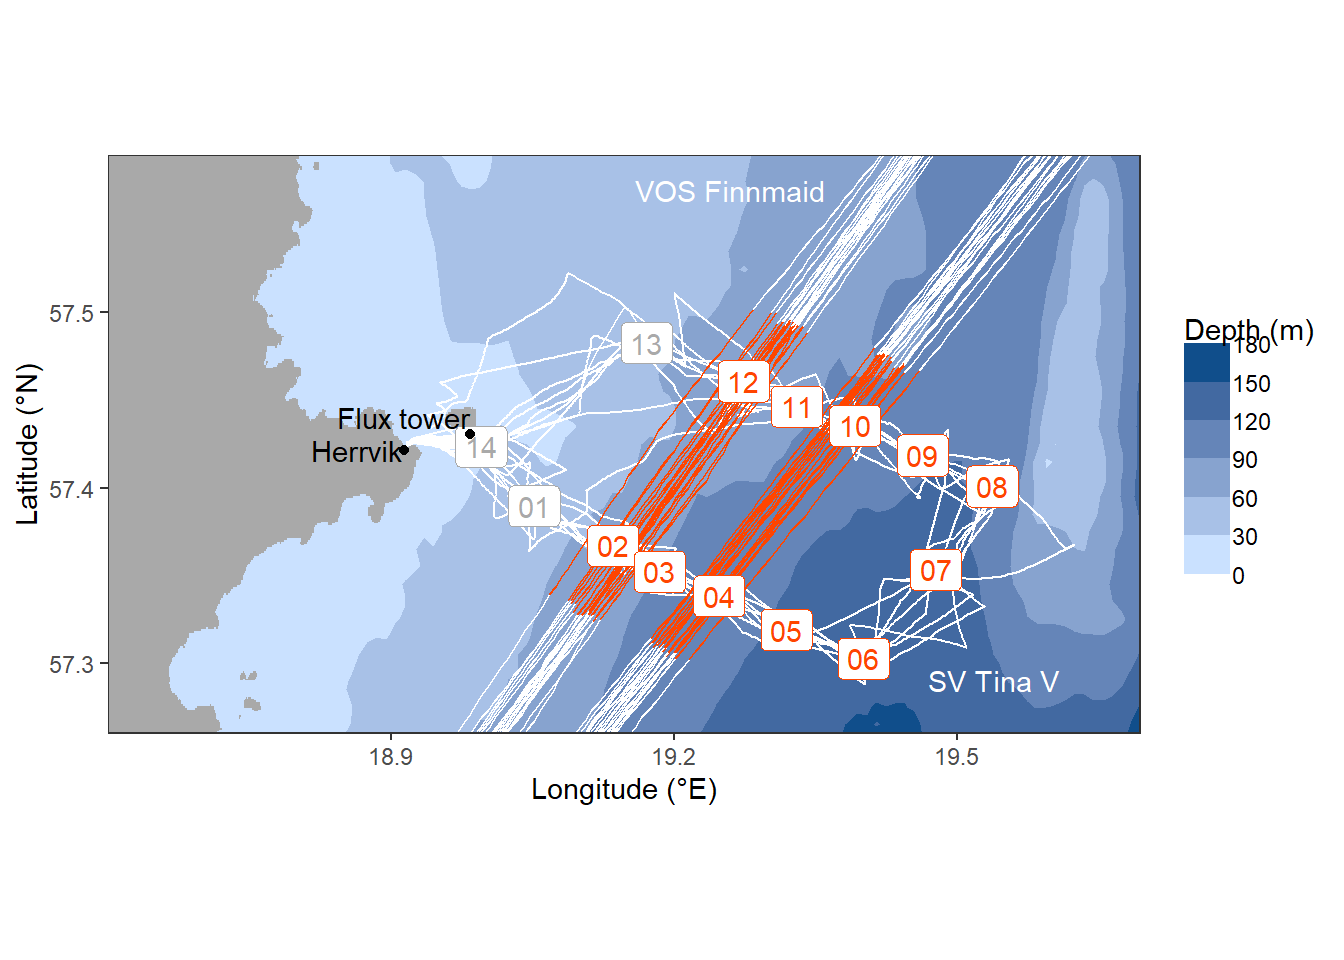
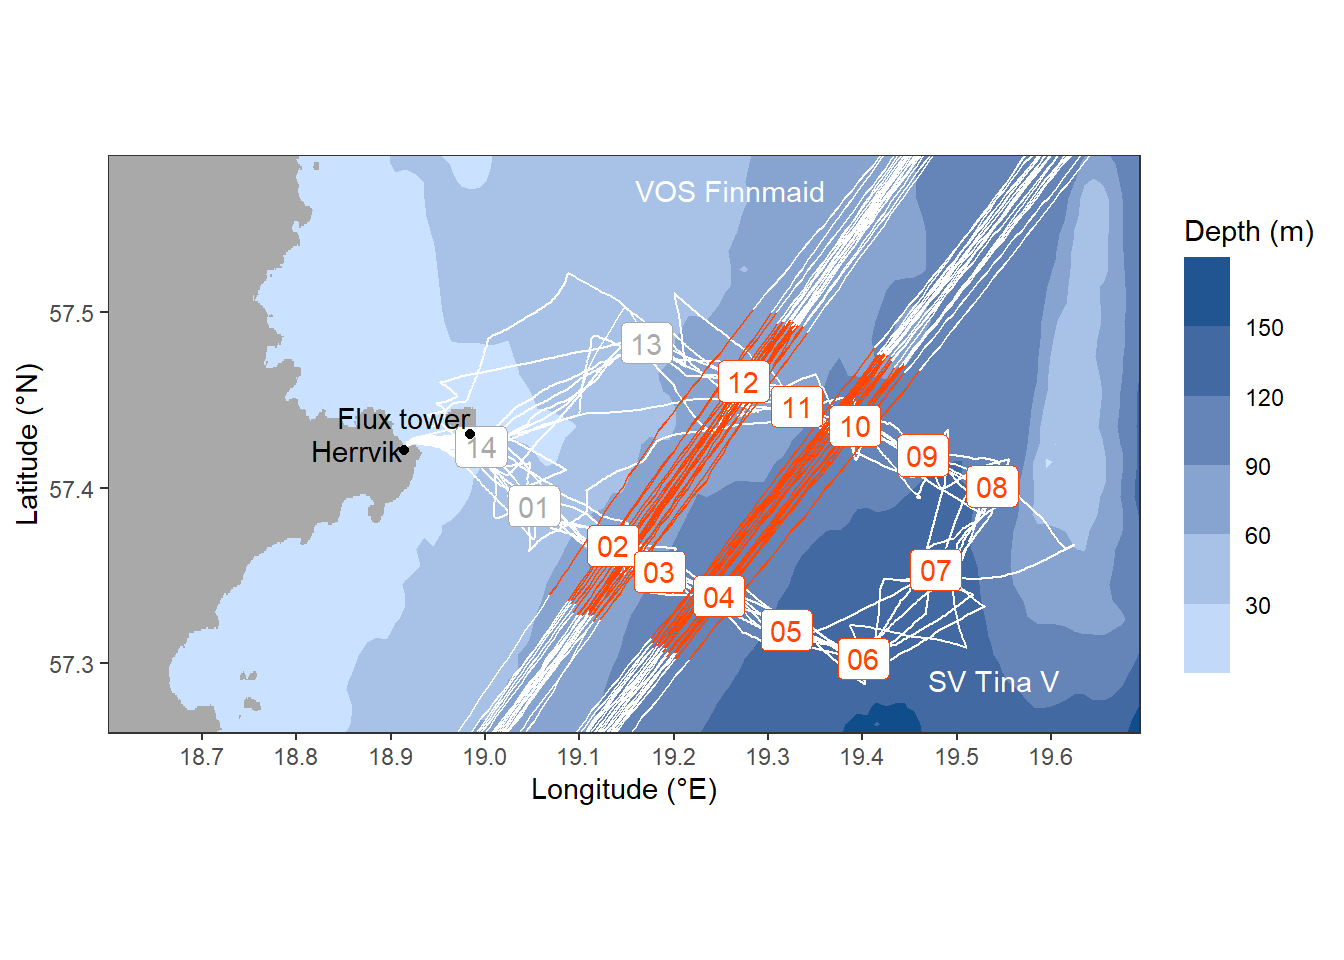
Build site.

diff --git a/docs/CT_dynamics.html b/docs/CT_dynamics.html
@@ -437,7 +437,7 @@ div.tocify {
 
 <h1 class="title toc-ignore">CT dynamics</h1>
 <h4 class="author">Jens Daniel Müller</h4>
-<h4 class="date">26 October, 2020</h4>
+<h4 class="date">30 October, 2020</h4>
 
 </div>
 
@@ -462,7 +462,7 @@ div.tocify {
 <div class="tab-content">
 <div id="summary" class="tab-pane fade in active">
 <p>
-<strong>Last updated:</strong> 2020-10-26
+<strong>Last updated:</strong> 2020-10-30
 </p>
 <p>
 <strong>Checks:</strong> <span class="glyphicon glyphicon-ok text-success" aria-hidden="true"></span> 7 <span class="glyphicon glyphicon-exclamation-sign text-danger" aria-hidden="true"></span> 0
@@ -553,16 +553,16 @@ This reproducible <a href="http://rmarkdown.rstudio.com">R Markdown</a> analysis
 <div class="panel panel-default">
 <div class="panel-heading">
 <p class="panel-title">
-<a data-toggle="collapse" data-parent="#workflowr-checks" href="#strongRepositoryversionstrongahrefhttpsgithubcomjensdanielmuellerBloomSailtree67495814c9df3983c04dabda174f8699df73add0targetblank6749581a"> <span class="glyphicon glyphicon-ok text-success" aria-hidden="true"></span> <strong>Repository version:</strong> <a href="https://github.com/jens-daniel-mueller/BloomSail/tree/67495814c9df3983c04dabda174f8699df73add0" target="_blank">6749581</a> </a>
+<a data-toggle="collapse" data-parent="#workflowr-checks" href="#strongRepositoryversionstrongahrefhttpsgithubcomjensdanielmuellerBloomSailtreec8908b46c2c998a291de113842b05636ad032fc2targetblankc8908b4a"> <span class="glyphicon glyphicon-ok text-success" aria-hidden="true"></span> <strong>Repository version:</strong> <a href="https://github.com/jens-daniel-mueller/BloomSail/tree/c8908b46c2c998a291de113842b05636ad032fc2" target="_blank">c8908b4</a> </a>
 </p>
 </div>
[2 lines of base64/hex data omitted]
 <div class="panel-body">
 <p>
 Great! You are using Git for version control. Tracking code development and connecting the code version to the results is critical for reproducibility.
 </p>
 <p>
-The results in this page were generated with repository version <a href="https://github.com/jens-daniel-mueller/BloomSail/tree/67495814c9df3983c04dabda174f8699df73add0" target="_blank">6749581</a>. See the <em>Past versions</em> tab to see a history of the changes made to the R Markdown and HTML files.
+The results in this page were generated with repository version <a href="https://github.com/jens-daniel-mueller/BloomSail/tree/c8908b46c2c998a291de113842b05636ad032fc2" target="_blank">c8908b4</a>. See the <em>Past versions</em> tab to see a history of the changes made to the R Markdown and HTML files.
 </p>
 <p>
 Note that you need to be careful to ensure that all relevant files for the analysis have been committed to Git prior to generating the results (you can use <code>wflow_publish</code> or <code>wflow_git_commit</code>). workflowr only checks the R Markdown file, but you know if there are other scripts or data files that it depends on. Below is the status of the Git repository when the results were generated:
@@ -619,6 +619,40 @@ Message
 </tr>
 </thead>
 <tbody>
+<tr>
+<td>
+Rmd
+</td>
+<td>
+<a href="https://github.com/jens-daniel-mueller/BloomSail/blob/c8908b46c2c998a291de113842b05636ad032fc2/analysis/CT_dynamics.Rmd" target="_blank">c8908b4</a>
+</td>
+<td>
+jens-daniel-mueller
+</td>
+<td>
+2020-10-30
+</td>
+<td>
+updated map
+</td>
+</tr>
+<tr>
+<td>
+html
+</td>
+<td>
+<a href="https://rawcdn.githack.com/jens-daniel-mueller/BloomSail/1b8abf5e204288bb7e4bde8e2ae780371d8d31d0/docs/CT_dynamics.html" target="_blank">1b8abf5</a>
+</td>
+<td>
+jens-daniel-mueller
+</td>
+<td>
+2020-10-26
+</td>
+<td>
+Build site.
+</td>
+</tr>
 <tr>
 <td>
 Rmd
@@ -4040,6 +4074,7 @@ ggplot() +
     expand = 0,
     ylim = c(parameters$map_lat_lo + 0.01, parameters$map_lat_hi - 0.01)
   ) +
+  scale_x_continuous(breaks = seq(10,30,0.1)) +
   labs(x = &quot;Longitude (°E)&quot;, y = &quot;Latitude (°N)&quot;) +
   scale_fill_gradient(
     low = &quot;lightsteelblue1&quot;,
@@ -4048,6 +4083,7 @@ ggplot() +
     breaks = seq(0, 180, 30),
     guide = &quot;colorstrip&quot;
   ) +
+  guides(fill = guide_colorsteps(barheight = unit(5.5, &quot;cm&quot;))) +
   scale_color_manual(values = c(&quot;white&quot;, &quot;darkgrey&quot;, &quot;orangered&quot;),
                      guide = FALSE)</code></pre>
 <div class="figure" style="text-align: center">
